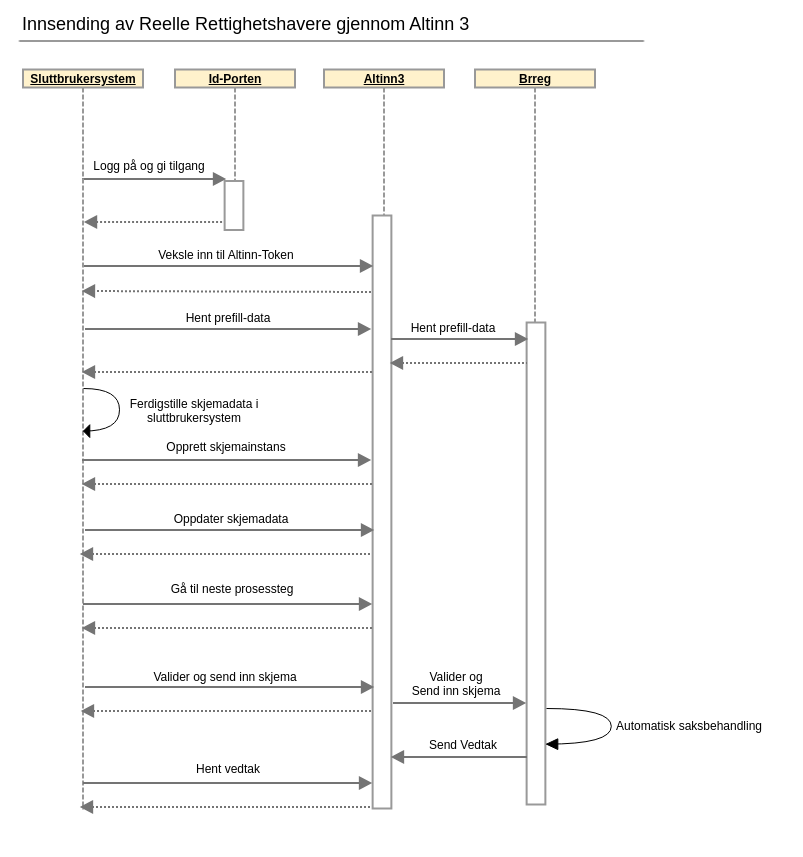
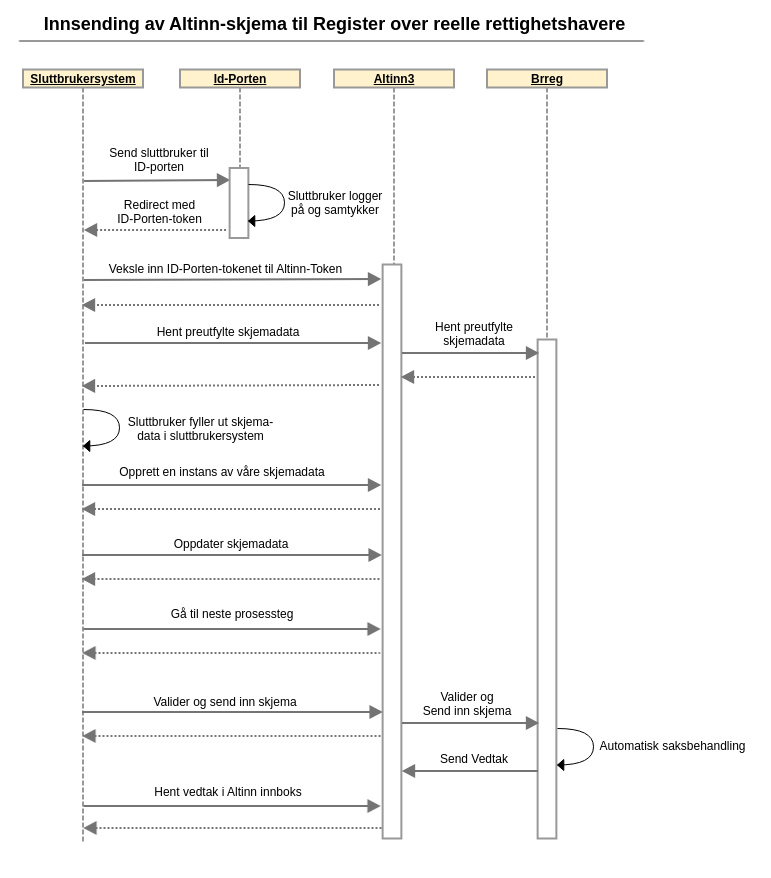
NOJIRA: RRH-3861: Oppdaterte sekvensdiagram og innhold etter QA på Innsending av Altinn-skjema

Changed region(s): [[0.0311, 0.0, 0.965, 0.9708]]

diff --git a/content/apidokumentasjon/reelle-rettighetshavere/maskinell-innrapportering/hvordan-sende-inn/_index.md b/content/apidokumentasjon/reelle-rettighetshavere/maskinell-innrapportering/hvordan-sende-inn/_index.md
@@ -17,14 +17,14 @@ Som sluttbrukersystem kan du sende inn opplysninger om Reelle rettighetshavere t
     * [5. Du bygger opp opplysninger om Reelle rettighetshavere som JSON i ditt system](#5-du-bygger-opp-opplysninger-om-reelle-rettighetshavere-som-json-i-ditt-system)
     * [6. Opprett en instans av vårt Altinn-skjema](#6-opprett-en-instans-av-vårt-altinn-skjema)
     * [7. Du setter opplysninger om Reelle rettighetshavere som skjemadata på instansen (som du bygget opp i steg 5.)](#7-du-setter-opplysninger-om-reelle-rettighetshavere-som-skjemadata-på-instansen-som-du-bygget-opp-i-steg-5)
-    * [8. Du går videre til neste prosess (Validering av skjema)](#8-du-går-videre-til-neste-prosess-validering-av-skjema)
-    * [9. Du sender inn skjemaet til Brønnøysundregistrene](#9-du-sender-inn-skjemaet-til-brønnøysundregistrene)
+    * [8. Du går videre til neste prosessteg](#8-du-går-videre-til-neste-prosess-validering-av-skjema)
+    * [9. Du validerer dataene og sender inn skjemaet til Brønnøysundregistrene](#9-du-sender-inn-skjemaet-til-brønnøysundregistrene)
 <!-- TOC -->
 
 
 ## Sekvensdiagram
 
-![Sekvensdiagram](sekvensdiagram_minn.png)
+![Sekvensdiagram - Innsending av Altinn-skjema til Register over reelle rettighetshavere](sekvensdiagram_minn.png)
 
 ## ID-Porten
 
@@ -187,15 +187,8 @@ organisasjonsnummeret du skal sende inn for. Du trenger partyId i alle resterend
 
 ### 4. Hent preutfylte skjemadata
 
-Vi forhåndsutfyller alle skjemainstanser med preutfylte data. Alle skjemainstanser blir preutfylt med:
-
-* rettighetsinformasjonsid
-* registreringsid
-
-**Disse feltene og verdiene du henter her _MÅ_ være satt i steget når du setter skjemadataen**
-
 For å forenkle prosessen med å sende inn nye opplysninger om reelle rettighetshavere vil skjemainstansen være preutfylt 
-med forrige innrapporterte data. Du kan da ta utgangspunkt i den preufylte skjemadataen, gjøre endringer på 
+med forrige innrapporterte data. Du kan da ta utgangspunkt i de preufylte skjemadataene, gjøre endringer på 
 opplysningene, og sende disse inn.
 
 `GET {{altinn-miljø}}/brg/rrh-innrapportering/prefill/{partyId}`
@@ -300,26 +293,21 @@ opplysningene, og sende disse inn.
 
 ### 5. Du bygger opp opplysninger om Reelle rettighetshavere som JSON i ditt system
 
-{{< info >}}
-Vi jobber med en side som forklarer hvilke felter som skal settes når. <strong>"Lenke kommer"</strong>.
-{{< /info >}}
-
 JSON-skjema for å validere dataene dine er tilgjengelig på 
-[https://schema.brreg.no/reelle/altinn/schema.json](https://schema.brreg.no/reelle/altinn/schema.json). 
-Sjekk at versjonsnummeret på skjemaet samsvarer med feltet `versjon` i de preutfylte skjemadataene 
-([steg 4.](#4-hent-preutfylte-skjemadata)).
+[https://schema.brreg.no/reelle/altinn/schema.json](https://schema.brreg.no/reelle/altinn/schema.json). Skjemaet kan benyttes til å validere endringer du gjør på
+på de prutfylte datene ([steg 4.](#4-hent-preutfylte-skjemadata)).
 
-Se gjerne [siden med eksempler](../eksempler-paa-registrering) for å se eksempler på ferdigutfylte JSON-opplysninger. 
+Du kan finne JSON-eksempler sammen med en beskrivelse av hva som må fylles ut på denne [siden](../eksempler-paa-registrering).
 
-For å teste hvordan ulike kombinasjoner av reelle rettighetshavere skal settes, kan du manuelt fylle disse ut i vårt 
-Altinn-skjema på TT02. Etterpå kan du maskinelt hente ut preutfylte skjemadata 
-([steg 4.](#4-hent-preutfylte-skjemadata)), og se hvordan opplysningene ser ut i JSON.
+For å teste hvordan ulike kombinasjoner av reelle rettighetshavere bygges opp, kan du også manuelt fylle disse ut i 
+vårt Altinn-skjema på TT02. Etterpå kan du maskinelt hente ut preutfylte skjemadata ([steg 4.](#4-hent-preutfylte-skjemadata)), og se hvordan 
+opplysningene ser ut i JSON. 
 
 {{< info >}}
 <strong>Selv om virksomheten ikke har innrapportert opplysninger om reelle rettighetshavere tidligere, må du alltid ta 
-utgangspunkt i prefilldata når du skal rapportere inn reelle rettighetshavere i ditt sluttbrukersystem!</strong><br> 
+utgangspunkt i preutfylte data når du skal rapportere inn reelle rettighetshavere i ditt sluttbrukersystem!</strong><br> 
 Feltene versjon og endret, samt innholdet i "metadata" som du rapporter inn <strong> må være identisk med innholdet du 
-hentet ut i prefilldataen</strong>.
+hentet fra de preutfylte dataene</strong>.
 {{< /info >}}
 
 Når du har ferdigstilt opplysningene som JSON kan du gå videre til neste steg.
@@ -459,10 +447,10 @@ Du må nå sette skjemadata som du opprettet i steg 5 på instansen. Dette gjør
 }
 {{< /expandableCode >}}
 
-### 8. Du går videre til neste prosess 
+### 8. Du går videre til neste prosessteg 
 
-Du kan nå gå videre til neste prosess i Altinn, det fører til at skjemadataene klargjøres for innsending.
-Du kan gå til neste prosess ved å kalle endepunktet:
+Du kan nå gå videre til neste prosessteg i Altinn, det fører til at skjemadataene klargjøres for innsending.
+Du kan gå til neste prosessteg ved å kalle endepunktet:
 
 `PUT {{altinn-miljø}}/brg/rrh-innrapportering/instances/{{party_id}}/{{skjema_instans_id}}/process/next`
 
